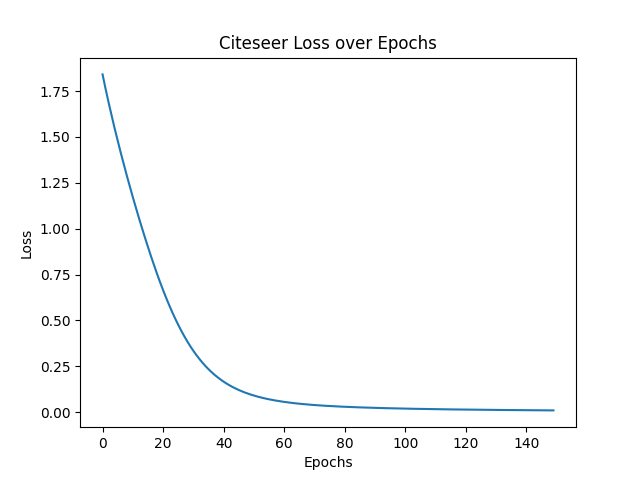
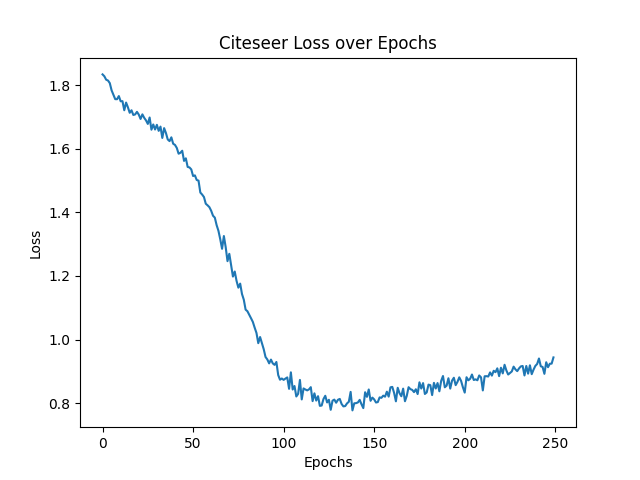
0.65 acc ._.

diff --git a/ECS189G_Winter_2022_Source_Code_Template/code/stage_5_code/Method_Citeseer.py b/ECS189G_Winter_2022_Source_Code_Template/code/stage_5_code/Method_Citeseer.py
@@ -22,21 +22,20 @@ class Method_Citeseer(method, nn.Module):
     device = "cuda" if torch.cuda.is_available() else "cpu"
     training = False
 
-    max_epoch = 150
+    max_epoch = 250
     learning_rate = 1e-3
 
-    hidden_size = 50
-    dropout = 0
+    hidden_size = 120
+    dropout = 0.6
+    weight_decay = 0.1
 
-    # terminate training if it gets this accurate cuz it might be overfitting
-    termination_acc = 1
     loss_history = []
 
     def __init__(self, mName, mDescription):
         method.__init__(self, mName, mDescription)
         nn.Module.__init__(self)
         self.gc1 = GraphConvolution(3703, self.hidden_size)
-        # self.gc2 = GraphConvolution(self.hidden_size, self.hidden_size)
+        self.gc2 = GraphConvolution(self.hidden_size, self.hidden_size)
         self.gc3 = GraphConvolution(self.hidden_size, 6)
 
     # it defines the forward propagation function for input x
@@ -45,8 +44,8 @@ class Method_Citeseer(method, nn.Module):
     def forward(self, X):
         X = F.relu(self.gc1(X, self.adj))
         X = F.dropout(X, self.dropout, training=self.training)
-        # X = F.relu(self.gc2(X, self.adj))
-        # X = F.dropout(X, self.dropout, training=self.training)
+        X = F.relu(self.gc2(X, self.adj))
+        X = F.dropout(X, self.dropout, training=self.training)
         X = self.gc3(X, self.adj)
         return F.log_softmax(X, dim=1)
 
@@ -55,7 +54,9 @@ class Method_Citeseer(method, nn.Module):
 
     def train(self, X, y, idx_train):
 
-        optimizer = torch.optim.Adam(self.parameters(), lr=self.learning_rate)
+        optimizer = torch.optim.Adam(
+            self.parameters(), lr=self.learning_rate, weight_decay=self.weight_decay
+        )
         loss_function = nn.CrossEntropyLoss()
         self.training = True
 
@@ -81,9 +82,6 @@ class Method_Citeseer(method, nn.Module):
                 print(
                     "Epoch:", epoch, "Accuracy:", accuracy, "Loss:", train_loss.item()
                 )
-
-            if accuracy > self.termination_acc:
-                break
 
     def test(self, X):
         self.training = False

diff --git a/ECS189G_Winter_2022_Source_Code_Template/code/stage_5_code/Dataset_Loader.py b/ECS189G_Winter_2022_Source_Code_Template/code/stage_5_code/Dataset_Loader.py
@@ -18,8 +18,6 @@ class Dataset_Loader(dataset):
 
     def __init__(self, seed=None, dName=None, dDescription=None):
         super(Dataset_Loader, self).__init__(dName, dDescription)
-        # seed here idk go crazy with it
-        random.seed(1)
 
     def adj_normalize(self, mx):
         """normalize sparse matrix"""
@@ -52,6 +50,8 @@ class Dataset_Loader(dataset):
     def sample(self, labels, ntrain, ntest):
         all = []
         for i in range(max(labels) + 1):
+            # idk whats up with this seed its still making random numbers
+            random.seed(1)
             single_sample = random.sample(
                 [id for id, label in enumerate(labels) if label == i], ntrain + ntest
             )
@@ -107,12 +107,10 @@ class Dataset_Loader(dataset):
             idx_train, idx_test = self.sample(labels, 20, 200)
 
         idx_train = torch.LongTensor(idx_train)
-        # idx_val = torch.LongTensor(idx_val)
         idx_test = torch.LongTensor(idx_test)
-        # get the training nodes/testing nodes
-        # train_x = features[idx_train]
-        # val_x = features[idx_val]
-        # test_x = features[idx_test]
+
+        print(idx_train)
+
         train_test = {
             "idx_train": idx_train,
             "idx_test": idx_test,
